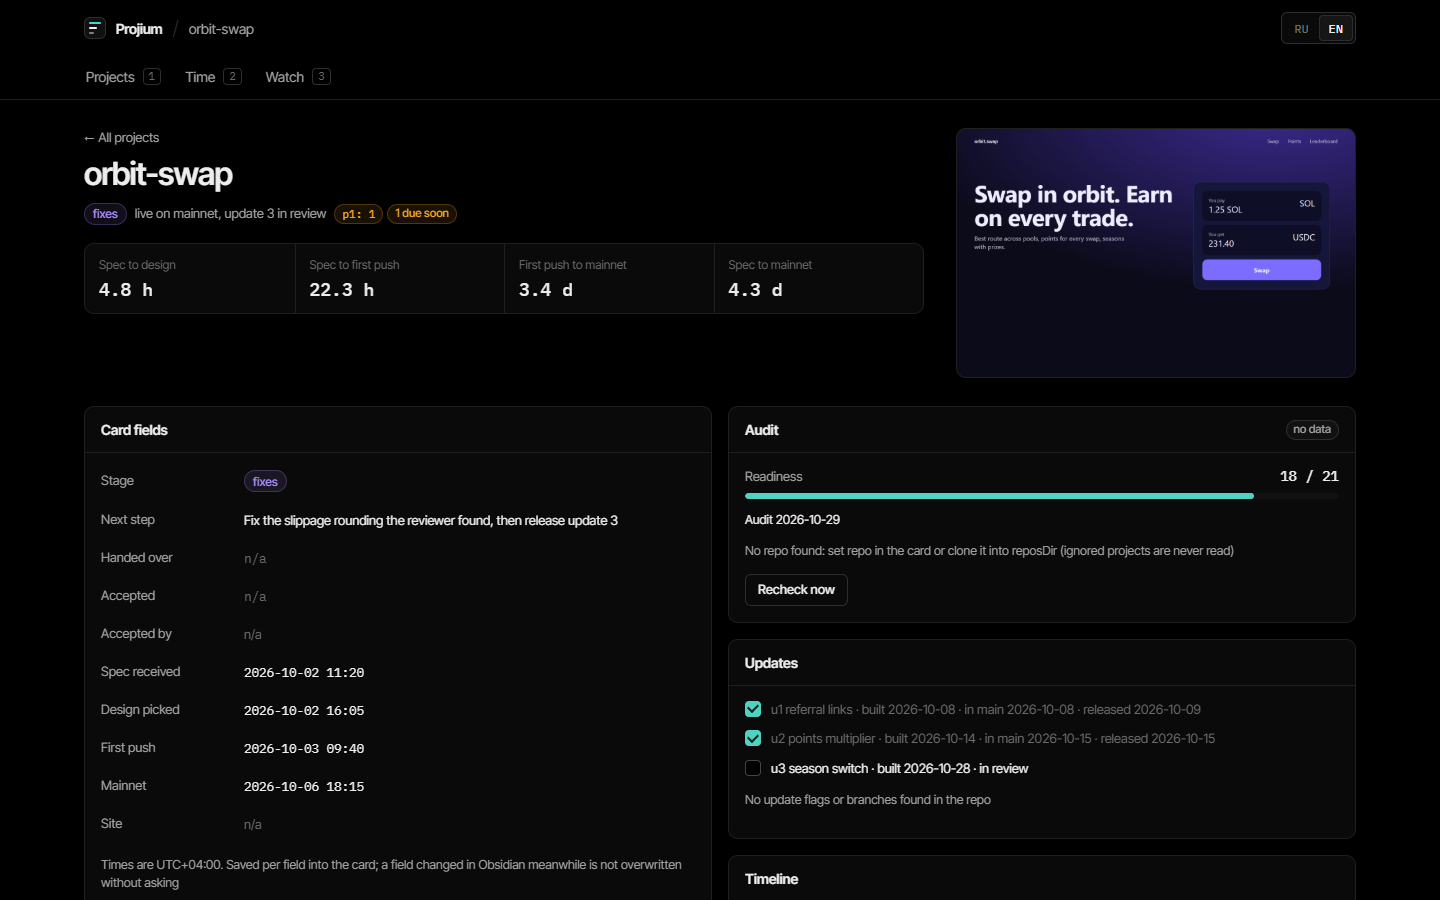
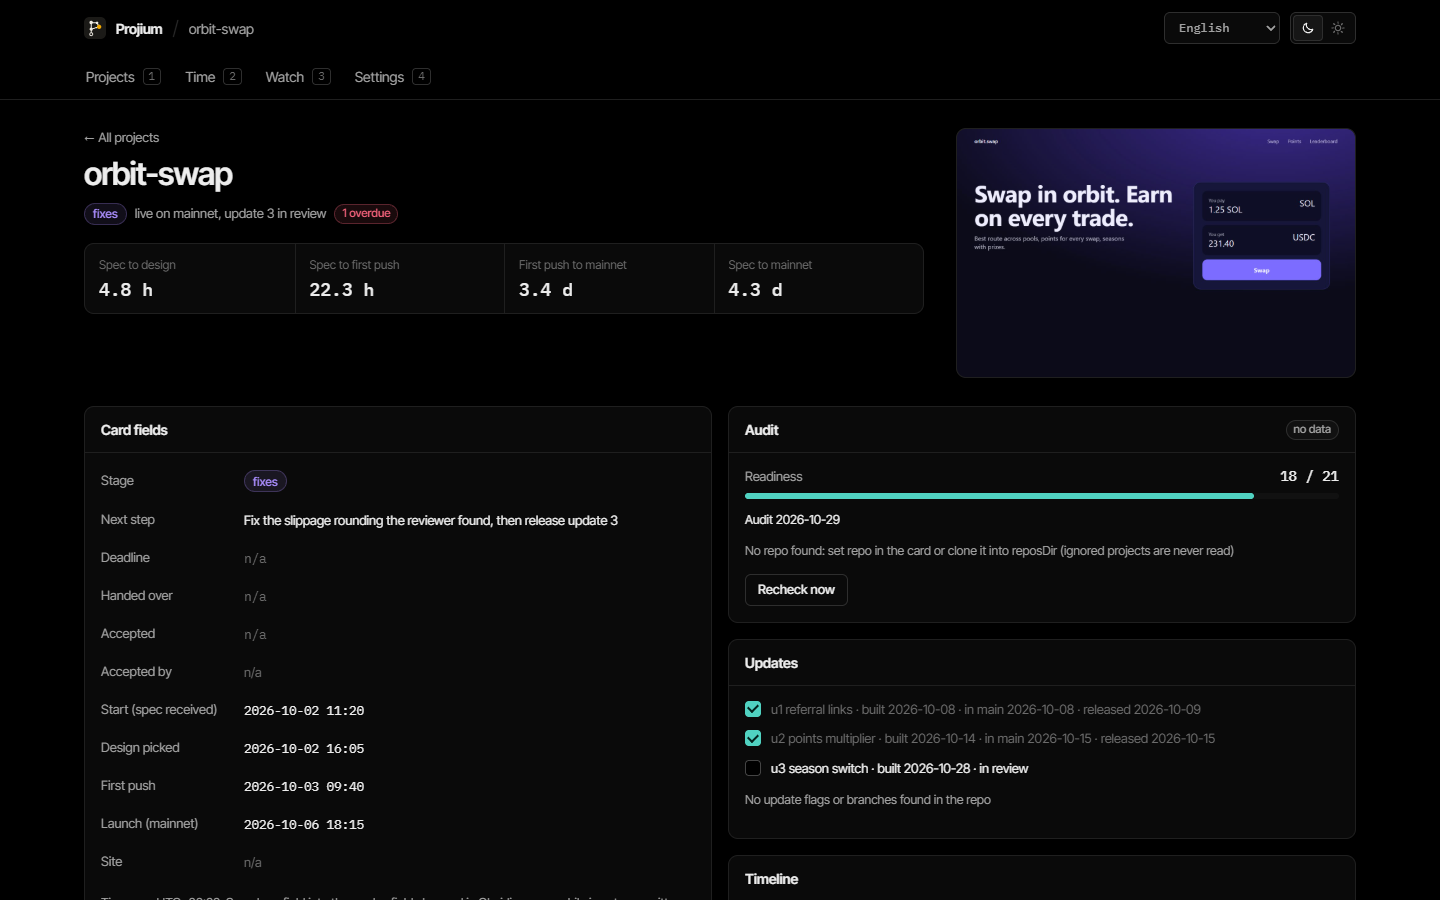
Document 1.0.0 fixes, refresh screenshots and list all languages in the schema

diff --git a/CHANGELOG.md b/CHANGELOG.md
@@ -4,9 +4,10 @@ Versions follow [semantic versioning](https://semver.org); each one is a git tag
 
 ## 1.0.0 (2026-11-21)
 
+- **Breaking:** `deadline` is now a Projium field, so a config that maps another field onto a frontmatter key named `deadline` (`cards.fields.<x>: "deadline"`) is refused at start. Map `deadline` itself instead, or point that field at another key.
 - **13 languages.** The interface, the daily digest, Launch Watch alerts and client status pages are in English, Russian, Ukrainian, German, French, Spanish, Portuguese, Italian, Polish, Turkish, Chinese, Japanese and Korean. A language picker replaces the RU/EN switch; the browser language is used until you pick one. `digest.lang`, `watch.lang` and a client page's `lang` accept any of the codes. All texts of one language live in one file, `public/locales/<code>.js`, and a test checks every file against English.
-- **A `closed` stage** for projects that were shut down or dropped. A closed project leaves In progress and Needs attention, raises no signals, is left out of the digest and has its own filter. Its Launch Watch targets pause: they are not checked, an open incident ends as "project closed" without a message, and checks resume when the stage changes back. The setup wizard reads words like closed, archived or cancelled as `closed`; a config written before that maps "closed" to another stage keeps working.
-- **No more false "site down".** A failed uptime check is retried once after 3 seconds, and a site counts as down only after two failed checks in a row; a single failure shows an amber dot that says so. The digest and MCP `list_projects` use the same rule.
+- **A `closed` stage** for projects that were shut down or dropped. A closed project leaves In progress and Needs attention, raises no signals, is left out of the digest and has its own filter. Its Launch Watch targets pause: they are not checked, an open incident ends as "project closed" without a message, and checks resume when the stage changes back. The setup wizard reads words like closed, archived or cancelled as `closed`, and stage names in another case (`Closed`, `Done`) read as the stage. A config written before 1.0 that maps the word "closed" to another stage keeps reading it that way; setting `closed` there is refused with the reason, and `doctor` suggests adding a word for it, like `"archived": "closed"`.
+- **No more false "site down".** An uptime check that gets no answer or a 5xx is retried once after 3 seconds, and a site counts as down only after two failed checks in a row; a single failure shows an amber dot that says so. The digest and MCP `list_projects` use the same rule.
 - **Project deadline:** a `deadline` field (`YYYY-MM-DD`, read from a `deadline` key or a mapped one). While the project is in progress, a passed deadline is a red signal and one in the next two days an amber one; the digest prints it and `list_projects` returns it.
 - Repos named in plain text are found: `Repo: ~/code/x` or `**Repo:** <path>` without backticks, "code in <path>", or `Repo: <folder>` inside `reposDir`.
 - **Time page:** a project with sessions but fewer than two milestone times shows all its sessions together instead of nothing; each time category is explained in one line; each median says how many projects it comes from; the page says what it measures.

diff --git a/docs/card-format.md b/docs/card-format.md
@@ -46,7 +46,7 @@ Keep it flat: one `key: value` per line. Multi-line values, block scalars and du
 | `next_step` | one line | Card and digest. |
 | `site` | `"https://domain"` | Uptime check every 10 minutes while the stage is not `done`, plus the prod flag read (below). Public https domains only. |
 | `preview` | `"preview.jpg"`, `"alpha/shot.png"` or an Obsidian link `"[[Projects/alpha/preview.png]]"` | Cover image. A bare file name is looked up in the card's folder. png, jpg or webp, inside `projectsDir` only. Without it, the repo's `public/og.*` image is used. |
-| `repo` | `"alpha"`, `"~/code/alpha"`, an absolute path, or `none` | The git repo of the project, relative to `reposDir`. Without it, the tracker uses `cards.repos`, then a `Repo: \`<path>\`` line in the card body (a backticked absolute path, `C:\...`, `C:/...`, `/...` or `~/...`), then a folder in `reposDir` named like the card, ignoring case, spaces and punctuation. `none` marks a project without code: no repo lookup, no warning. |
+| `repo` | `"alpha"`, `"~/code/alpha"`, an absolute path, or `none` | The git repo of the project, relative to `reposDir`. Without it, the tracker uses `cards.repos`, then a repo named in the card body: a `Repo: \`<path>\`` line (a backticked absolute path, `C:\...`, `C:/...`, `/...` or `~/...`), a plain `Repo: <path>` or `**Repo:** <path>` line (the rest of the line, so paths with spaces work; quotes and a final full stop are dropped), `Repo: <folder>` for a folder inside `reposDir`, or "code in <path>" in a sentence (a path without spaces there), then a folder in `reposDir` named like the card, ignoring case, spaces and punctuation. `none` marks a project without code: no repo lookup, no warning. |
 | `spec_at`, `design_pick_at`, `first_push_at`, `mainnet_at` | `YYYY-MM-DDTHH:MM` | Milestone durations and the time split. Read in the `utcOffset` time zone. |
 | `deadline` | `YYYY-MM-DD` | The project's due date. While the project is in progress, a passed deadline and one in the next two days show in Needs attention and the digest. |
 | `handed_over_at`, `accepted_at` | `YYYY-MM-DD` | Shown on the card. |

diff --git a/docs/watch.md b/docs/watch.md
@@ -2,7 +2,7 @@
 
 Launch Watch checks what you have live and tells you when it breaks: sites and their TLS certificates, a heartbeat your backend publishes as JSON, and the balance of wallets your keepers spend from. It sends one message when an incident opens and one when it recovers, keeps the incident history in `data/tracker.db`, and shows everything on the **Watch** page (key `3`).
 
-Targets come from the `watch` block of `tracker.config.json`, not from the cards, so a project marked `done` that is still live stays watched. Nothing is written into your notes.
+Targets come from the `watch` block of `tracker.config.json`, not from the cards, so a project marked `done` that is still live stays watched. The targets of a project whose card says `closed` pause: they are not checked, an open incident ends as "project closed" without a message, and checks resume when the stage changes back. Nothing is written into your notes.
 
 ## Config
 
@@ -29,7 +29,7 @@ Targets come from the `watch` block of `tracker.config.json`, not from the cards
 | `every` | `5` | Minutes between check rounds (1 to 1440). Each round makes one request per site, heartbeat and wallet, so 5 minutes stays polite to a public RPC. |
 | `failAfter` | `2` | Failed checks in a row before an incident opens. |
 | `recoverAfter` | `2` | Good checks in a row before it closes. |
-| `lang` | `digest.lang` | `en` or `ru` for the alert text. |
+| `lang` | `digest.lang` | Language of the alert text, any code `digest.lang` takes (`en`, `ru`, `uk`, `de`, `fr`, `es`, `pt`, `it`, `pl`, `tr`, `zh`, `ja`, `ko`). |
 | `command` | the digest channel | Command that sends alerts, like `digest.command`: the text is appended as the last argument. Without it, alerts go where the digest goes (`digest.command`, or `TELEGRAM_BOT_TOKEN` and `TELEGRAM_CHAT_ID` in `.env.local`). With neither, incidents show on the dashboard only. |
 | `env` | `[]` | Environment variable names the alert command needs (passed by `start:bg`, like `digest.env`). |
 | `rpc.solana` | `https://api.mainnet-beta.solana.com` | Solana JSON-RPC URL for balances. |

diff --git a/docs/mcp.md b/docs/mcp.md
@@ -52,9 +52,9 @@ A non-default config file goes into the server's environment as `TRACKER_CONFIG`
 
 | Tool | Does | Writes |
 |---|---|---|
-| `list_projects` | Every project: stage, next step, open tasks, earliest due date, site state, audit freshness, readiness. `stage` filters; ignored projects only with `include_ignored`. | no |
+| `list_projects` | Every project: stage, next step, deadline, open tasks, earliest due date, site state (down after two failed checks in a row), audit freshness, readiness. `stage` filters (`development`, `review`, `fixes`, `done`, `closed`); ignored projects only with `include_ignored`. | no |
 | `get_project` | One project in full, as `GET /api/projects/<name>` returns it (without the uptime history), including `fileId`, `locked` fields and task ids. | no |
-| `set_field` | One field (`stage`, `next_step`, `site`, `accepted_by`, dates and milestone times), with `expected` and `fileId`. | the note |
+| `set_field` | One field (`stage`, `next_step`, `deadline`, `site`, `accepted_by`, dates and milestone times), with `expected` and `fileId`. Setting `closed` also pauses the project's Launch Watch targets. | the note |
 | `add_task` | An open task with optional `due` and `p`; the id is created. | the note |
 | `toggle_task` | Checks or unchecks a task, with `expected` (the task as read). A task without an id is given by `at`. | the note |
 | `edit_task` | Text, due date or priority of a task; left-out fields stay. A task without an id is given by `at` and gets an id. | the note |

diff --git a/README.md b/README.md
@@ -16,11 +16,15 @@ The list starts with what needs you: open incidents, overdue and p1 tasks, proje
 
 The interface, the daily digest, alerts and client pages come in 13 languages: English, Russian, Ukrainian, German, French, Spanish, Portuguese, Italian, Polish, Turkish, Chinese, Japanese and Korean (the picker in the header; the digest language in Settings).
 
+![The project list in Japanese](docs/screenshot-projects-ja.png)
+
 You can edit card fields and tasks from the dashboard, including tasks your agents wrote without a Projium id, and check off updates. It writes one field or one line at a time and never overwrites something you changed in Obsidian meanwhile: it shows what is there now and asks.
 
 Optional: a daily digest to Telegram (or any command you name), and **Launch Watch** for what is live: sites and their certificates, a keeper heartbeat, low wallet balances (Solana, EVM), with one alert when an incident opens and one when it recovers, an incident history and muting for maintenance ([docs/watch.md](docs/watch.md)).
 
 ![Project page](docs/screenshot-project.png)
+
+![Time page](docs/screenshot-time.png)
 
 ![Launch Watch](docs/screenshot-watch.png)
 

diff --git a/AGENTS.md b/AGENTS.md
@@ -71,7 +71,7 @@ It prints every frontmatter key with how many notes use it, its value kinds (tex
 | `design approved` | `design_pick_at` |
 | `first deploy`, `first_push`, `live since` | `first_push_at` |
 | `launched`, `released`, `mainnet` | `mainnet_at` (the production launch; the name comes from crypto projects, it fits any launch) |
-| `deadline`, `due`, `due date` | `deadline` |
+| `deadline`, `due`, `due_date` | `deadline` |
 | `delivered`, `handed over` | `handed_over_at` |
 | `accepted` (a date) and the person who accepted the work | `accepted_at`, `accepted_by`. A `client` key usually names the customer, not who accepted: do not map it. |
 | `url`, `site`, `prod` | `site`: **ask first**, it turns on uptime checks |
